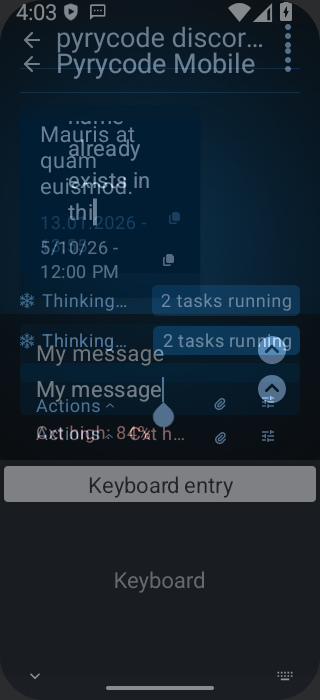
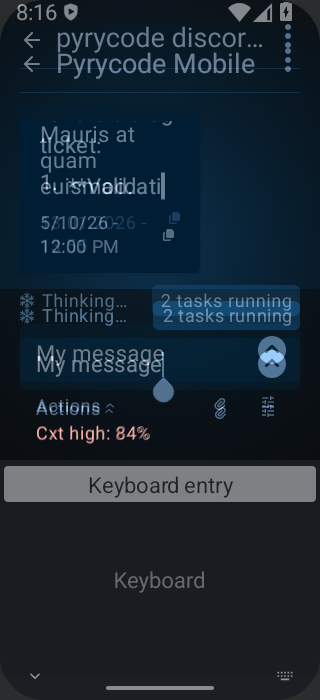
fix(thread): measure the wrapped label's gap from the Actions text (#1549)

diff --git a/app/src/sharedTest/java/de/pyryco/mobile/ui/conversations/thread/ThreadComposerFooterWidthTest.kt b/app/src/sharedTest/java/de/pyryco/mobile/ui/conversations/thread/ThreadComposerFooterWidthTest.kt
@@ -24,6 +24,7 @@ import androidx.compose.ui.test.performClick
 import androidx.compose.ui.test.performSemanticsAction
 import androidx.compose.ui.text.TextLayoutResult
 import androidx.compose.ui.unit.Density
+import androidx.compose.ui.unit.Dp
 import androidx.compose.ui.unit.DpSize
 import androidx.compose.ui.unit.dp
 import androidx.test.ext.junit.runners.AndroidJUnit4
@@ -183,7 +184,7 @@ class ThreadComposerFooterWidthTest {
     // moves whole to a line of its own under Actions, and the paperclip and tune stay level with Actions.
     @Test
     fun compactWidthAndEnlargedText_highReadingWrapsUnderActions() {
-        renderCompactFooter(contextPercent = 84, fontScale = 1.5f)
+        renderCompactFooter(contextPercent = 84, fontScale = 1.5f, contentBottomPadding = 12.dp)
         val layout = contextLayout()
         assertEquals("Cxt high: 84%", layout.layoutInput.text.text)
         assertFalse("high reading ellipsizes at enlarged text", layout.isLineEllipsized(0))
@@ -193,11 +194,13 @@ class ThreadComposerFooterWidthTest {
             .assertContentDescriptionEquals("Context usage high, 84%")
 
         val actions = composeTestRule.onNode(hasText("Actions") and hasClickAction()).getUnclippedBoundsInRoot()
+        val actionsText = composeTestRule.onNodeWithText("Actions", useUnmergedTree = true).getUnclippedBoundsInRoot()
         val context = composeTestRule.onNodeWithTag(CONTEXT_USAGE_TEST_TAG, useUnmergedTree = true).getUnclippedBoundsInRoot()
         val attach = composeTestRule.onNodeWithContentDescription(string(R.string.cd_attach_files)).getUnclippedBoundsInRoot()
         val status = composeTestRule.onNodeWithContentDescription(string(R.string.cd_thread_status_expand)).getUnclippedBoundsInRoot()
         assertEquals("label starts under Actions", actions.left, context.left)
-        assertEquals("label sits 4dp under Actions", actions.bottom + 4.dp, context.top)
+        // Measured from Actions' visible text, not from the invisible touch padding under it.
+        assertEquals("label sits 4dp under Actions", actionsText.bottom + 4.dp, context.top)
         assertEquals("paperclip leaves Actions' row", actions.bottom, attach.bottom)
         assertEquals("tune leaves Actions' row", actions.bottom, status.bottom)
     }
@@ -219,6 +222,7 @@ class ThreadComposerFooterWidthTest {
         contextPercent: Int,
         fontScale: Float,
         size: DpSize = DpSize(320.dp, 640.dp),
+        contentBottomPadding: Dp = 0.dp,
     ) {
         composeTestRule.setContent {
             PyrycodeMobileTheme(darkTheme = true) {
@@ -230,6 +234,7 @@ class ThreadComposerFooterWidthTest {
                             onStatusClick = {},
                             onAnchorChanged = { _, _ -> },
                             onAttach = {},
+                            contentBottomPadding = contentBottomPadding,
                             modifier = Modifier.fillMaxWidth(),
                         )
                     }

diff --git a/app/src/main/java/de/pyryco/mobile/ui/conversations/thread/ThreadComposerFooter.kt b/app/src/main/java/de/pyryco/mobile/ui/conversations/thread/ThreadComposerFooter.kt
@@ -283,7 +283,7 @@ fun ThreadComposerFooter(
     ) {
         // The buttons in order, then the `Cxt:` segment, which [FooterTextRow] gives the leftover width or, when
         // that is too little, a line under the buttons (#1549). The two icons stay level with the buttons.
-        FooterTextRow(modifier = Modifier.weight(1f).alignBy(FooterFirstRowBottom)) {
+        FooterTextRow(contentBottomPadding = contentBottomPadding, modifier = Modifier.weight(1f).alignBy(FooterFirstRowBottom)) {
             FooterButton(
                 label = stringResource(R.string.thread_footer_actions),
                 clickLabel = stringResource(R.string.thread_footer_open_actions),
@@ -335,10 +335,12 @@ fun ThreadComposerFooter(
  * The footer's text controls in a row at [FooterButtonGap] (#1032). Every child but the last is a button,
  * held to its natural width until the buttons overflow, then to [footerShrinkCap]'s shared cap. The last
  * child, the `Cxt:` segment, follows the buttons when it fits whole beside them. Otherwise it moves to its own
- * line [FooterLineGap] under them (#1549, Figma 639:3308). [FooterFirstRowBottom] marks the button row's bottom.
+ * line [FooterLineGap] under the buttons' visible text (#1549, Figma 639:3308), measured above their invisible
+ * [contentBottomPadding]. [FooterFirstRowBottom] marks the button row's bottom.
  */
 @Composable
 private fun FooterTextRow(
+    contentBottomPadding: Dp,
     modifier: Modifier = Modifier,
     content: @Composable () -> Unit,
 ) {
@@ -357,9 +359,9 @@ private fun FooterTextRow(
         val rowHeight = placed.maxOf { it.height }
         val labelWidth = if (oneRow) (available - placed.sumOf { it.width }).coerceAtLeast(0) else constraints.maxWidth
         val placedLabel = label.measure(Constraints(maxWidth = labelWidth, maxHeight = constraints.maxHeight))
-        val labelTop = if (oneRow) 0 else rowHeight + FooterLineGap.roundToPx()
+        val labelTop = if (oneRow) 0 else rowHeight - contentBottomPadding.roundToPx() + FooterLineGap.roundToPx()
         val firstRowBottom = if (oneRow) maxOf(rowHeight, placedLabel.height) else rowHeight
-        val height = if (oneRow) firstRowBottom else labelTop + placedLabel.height
+        val height = if (oneRow) firstRowBottom else maxOf(rowHeight, labelTop + placedLabel.height)
         layout(constraints.maxWidth, height, mapOf(FooterFirstRowBottom to firstRowBottom)) {
             var x = 0
             placed.forEach {

diff --git a/docs/specs/architecture/1549-footer-context-label-wraps.md b/docs/specs/architecture/1549-footer-context-label-wraps.md
@@ -53,3 +53,8 @@ emulator and compare `compact-keyboard.png` and `thread.png` with `scripts/desig
   size (and any fixed-height parent) gives the footer; the old `Alignment.Bottom` kept the controls at the bottom.
   The outer row now also takes `wrapContentHeight(Alignment.Bottom)`, so the footer keeps its bottom placement in
   a taller slot. Found by `contextText_sitsAtBottomOfFooterTapRow`.
+- 2026-10-02: the first device capture put the wrapped label about 16dp under the Actions text, not Figma's 4dp,
+  because the thread passes `contentBottomPadding` (12dp of invisible touch overflow under the visible text).
+  `FooterTextRow` now takes `contentBottomPadding` and places the label `FooterLineGap` under the buttons'
+  visible content (row bottom minus that padding). The label is plain text, so it takes no taps from that
+  overflow. The wrap test asserts the gap from the Actions text with a 12dp padding.
